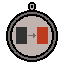
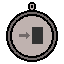
feat: enhance charm functionality with tile selection and activation logic
AbstractCharm now tracks if charm needs tile selection, and how many tiles are required. Also checks for tile selection completion.

Black charm has basic functionality.

Fixed how tris was calculated in the Tile class. It used to crash when selecting tiles cause it was out of index.

Added method to get the tile at cursor location in Wheel class.

CharmInputHandler allows tile selection.

Updated Black/Red charm images to be more clear.

Changed region(s): [[0.25, 0.4062, 0.75, 0.6875]]

diff --git a/core/src/main/java/io/wasabi/urg/managers/CharmInputHandler.java b/core/src/main/java/io/wasabi/urg/managers/CharmInputHandler.java
@@ -1,5 +1,6 @@
 package io.wasabi.urg.managers;
 
+import java.util.ArrayList;
 import java.util.List;
 
 import com.badlogic.gdx.InputAdapter;
@@ -8,6 +9,7 @@ import com.badlogic.gdx.math.Vector3;
 import com.badlogic.gdx.utils.viewport.Viewport;
 
 import io.wasabi.urg.elements.charm.AbstractCharm;
+import io.wasabi.urg.elements.game.Tile;
 import io.wasabi.urg.elements.game.Wheel;
 import io.wasabi.urg.state.RunState;
 import io.wasabi.urg.ui.CharmLayout;
@@ -18,7 +20,9 @@ public class CharmInputHandler extends InputAdapter {
     private final Wheel wheel;
 
     private AbstractCharm draggedCharm;
+    private AbstractCharm selectingCharm;
     private final Vector2 dragOffset = new Vector2();
+    private final List<Tile> selectedTiles = new ArrayList<>();
     private boolean hoveringWheel;
 
     public CharmInputHandler(RunState runState, Viewport viewport, Wheel wheel) {
@@ -30,6 +34,23 @@ public class CharmInputHandler extends InputAdapter {
     @Override
     public boolean touchDown(int screenX, int screenY, int pointer, int button) {
         Vector2 world = screenToWorld(screenX, screenY);
+
+        if (selectingCharm != null) {
+            Tile tile = wheel.getTileAt(world);
+            // if tile was clicked and tile has not been selected yet
+            if (tile != null && !selectedTiles.contains(tile)) {
+                selectedTiles.add(tile);
+                
+                // checks if charm has recieved enough tiles
+                if (selectingCharm.isTileSelectionComplete(selectedTiles.size())) {
+                    selectingCharm.activate(selectedTiles);
+                    selectingCharm = null;
+                    // clear the list
+                    selectedTiles.clear();
+                }
+            }
+            return true;
+        }
 
         List<AbstractCharm> charms = runState.getOwnedCharms();
         for (int i = charms.size() - 1; i >= 0; i--) {
@@ -75,7 +96,12 @@ public class CharmInputHandler extends InputAdapter {
         hoveringWheel = false;
 
         if (wheel.containsPoint(world) && runState.removeCharm(charm)) {
-            charm.activate();
+            if (charm.requiresTileSelection()) {
+                selectingCharm = charm;
+                selectedTiles.clear();
+            } else {
+                charm.activate(selectedTiles);
+            }
         }
         return true;
     }

diff --git a/core/src/main/java/io/wasabi/urg/elements/game/Wheel.java b/core/src/main/java/io/wasabi/urg/elements/game/Wheel.java
@@ -4,10 +4,11 @@ import java.util.List;
 
 import com.badlogic.gdx.Gdx;
 import com.badlogic.gdx.graphics.OrthographicCamera;
+import com.badlogic.gdx.graphics.g2d.PolygonRegion;
+import com.badlogic.gdx.graphics.g2d.SpriteBatch;
 import com.badlogic.gdx.graphics.glutils.ShapeRenderer;
 import com.badlogic.gdx.graphics.glutils.ShapeRenderer.ShapeType;
-import com.badlogic.gdx.graphics.g2d.SpriteBatch;
-
+import com.badlogic.gdx.math.Intersector;
 import com.badlogic.gdx.math.MathUtils;
 import com.badlogic.gdx.math.Vector2;
 import com.badlogic.gdx.physics.box2d.Body;
@@ -207,6 +208,32 @@ public class Wheel {
 
     public boolean containsPoint(Vector2 point) {
         return point.dst2(position) <= (radius + tileSize) * (radius + tileSize);
+    }
+
+    public Tile getTileAt(Vector2 point) {
+        for (Tile tile : tiles) {
+            // each tile is represented as triangles
+            PolygonRegion region = tile.getRegion();
+            float[] vertices = region.getVertices();
+            short[] triangles = region.getTriangles();
+
+            // for each triangle in the tile, check if the pointer is in it
+            for (int i = 0; i < triangles.length; i += 3) {
+                Vector2 first = getVertex(vertices, triangles[i]);
+                Vector2 second = getVertex(vertices, triangles[i + 1]);
+                Vector2 third = getVertex(vertices, triangles[i + 2]);
+                if (Intersector.isPointInTriangle(point, first, second, third)) {
+                    return tile;
+                }
+            }
+        }
+        return null;
+    }
+
+    // converts vertex index into actual cordinate
+    private Vector2 getVertex(float[] vertices, short index) {
+        int vertexIndex = index * 2; // multiply by 2 bc each vertex uses two array values 
+        return new Vector2(vertices[vertexIndex], vertices[vertexIndex + 1]);
     }
 
     /**

diff --git a/core/src/main/java/io/wasabi/urg/elements/charm/AbstractCharm.java b/core/src/main/java/io/wasabi/urg/elements/charm/AbstractCharm.java
@@ -1,8 +1,13 @@
 package io.wasabi.urg.elements.charm;
 
+import java.util.ArrayList;
+import java.util.Collections;
+import java.util.List;
+
 import com.badlogic.gdx.graphics.Texture;
 
 import io.wasabi.urg.elements.GameObject;
+import io.wasabi.urg.elements.game.Tile;
 import io.wasabi.urg.managers.RendererManager;
 import io.wasabi.urg.managers.TextureManager;
 import io.wasabi.urg.ui.Tooltip;
@@ -22,6 +27,7 @@ public class AbstractCharm extends GameObject{
     private Tween tweenX;
     private Tween tweenY;
     private static final float SNAP_DURATION = 0.25f;
+    private final List<Tile> selectedTiles = new ArrayList<>();
 
     protected AbstractCharm() {
         this.x = 0;
@@ -51,7 +57,25 @@ public class AbstractCharm extends GameObject{
     public void afterSpinEffect() {}
     public void roundEndEffect() {}
 
-    public void activate() {
+    public boolean requiresTileSelection() {
+        return false;
+    }
+
+    public int getRequiredTileSelections() {
+        return 0;
+    }
+
+    public boolean isTileSelectionComplete(int selectedTileCount) {
+        return selectedTileCount >= getRequiredTileSelections();
+    }
+
+    public List<Tile> getSelectedTiles() {
+        return Collections.unmodifiableList(selectedTiles);
+    }
+
+    public void activate(List<Tile> tiles) {
+        selectedTiles.clear();
+        selectedTiles.addAll(tiles);
         beforeSpinEffect();
     }
 

diff --git a/core/src/main/java/io/wasabi/urg/elements/charm/BlackCharm.java b/core/src/main/java/io/wasabi/urg/elements/charm/BlackCharm.java
@@ -1,5 +1,10 @@
 package io.wasabi.urg.elements.charm;
 
+import java.util.List;
+
+import io.wasabi.urg.elements.game.Tile;
+import io.wasabi.urg.elements.tiles.TileType;
+
 public class BlackCharm extends AbstractCharm {
 
     public BlackCharm() {
@@ -8,4 +13,21 @@ public class BlackCharm extends AbstractCharm {
         tooltip.setDescription("Choose two tiles, turn them into black tiles.");
     }
     
+    @Override
+    public boolean requiresTileSelection() {
+        return true;
+    }
+
+    @Override
+    public int getRequiredTileSelections() {
+        return 2;
+    }
+
+    @Override
+    public void beforeSpinEffect() {
+        List<Tile> selectedTiles = getSelectedTiles();
+        for (Tile tile : selectedTiles) {
+            tile.setColor(TileType.TileColour.BLACK);
+        }
+    }
 }

diff --git a/core/src/main/java/io/wasabi/urg/elements/game/Tile.java b/core/src/main/java/io/wasabi/urg/elements/game/Tile.java
@@ -112,7 +112,13 @@ public class Tile extends GameObject {
         float rot = rotation;
 
         float[] vertices = new float[segments * 4];
-        short[] tris = new short[segments * 11];
+        // Each pair of adjacent segments forms two triangles, which requires six
+        // indices. The final segment has no following segment to connect to.
+        short[] tris = new short[Math.max(0, segments - 1) * 6];
+
+        // short[] tris = new short[segments * 11];
+        // caused errors for me, I got AI to fix it as I was not working on this section
+        // feel free to change back/ further invistage - susan
 
         Vector2 fretPos = new Vector2(
                 x + (r1 + height / 2) * MathUtils.cos(rot),
